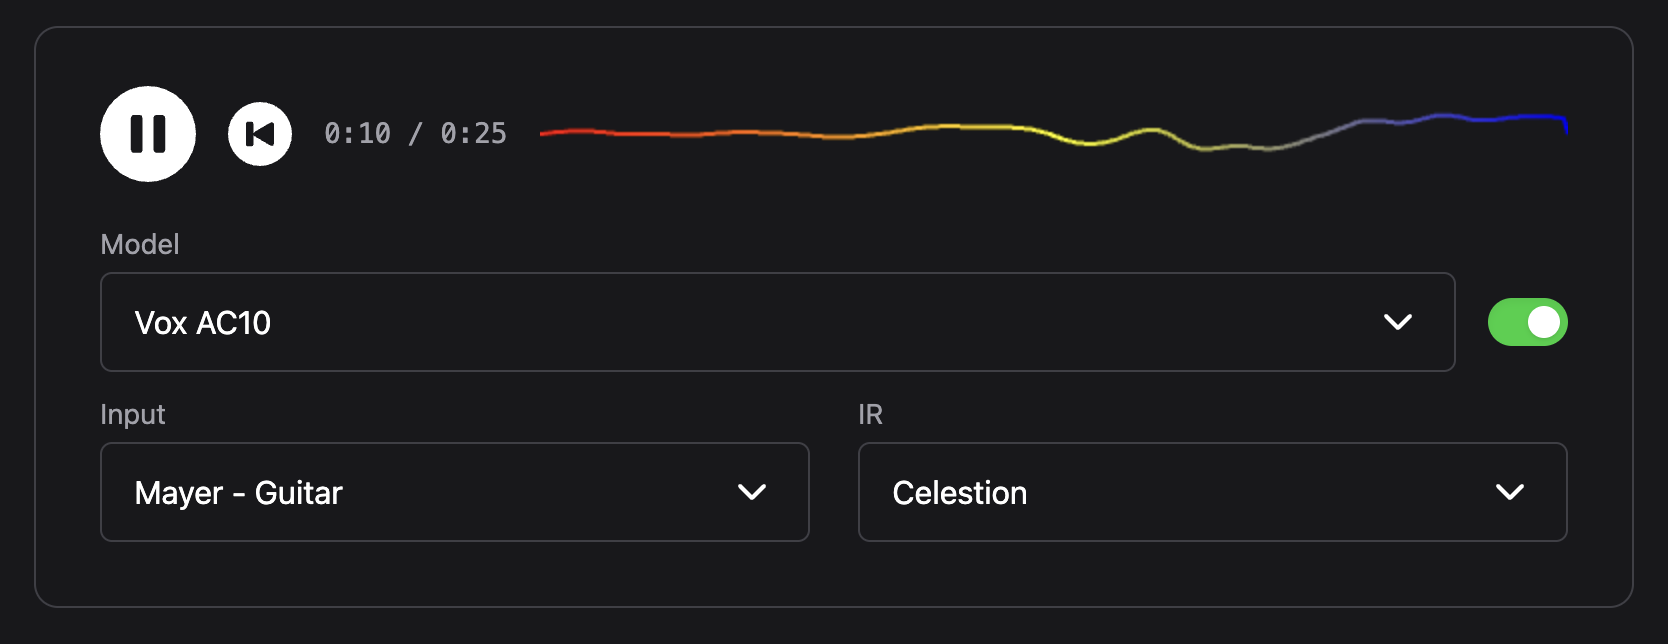
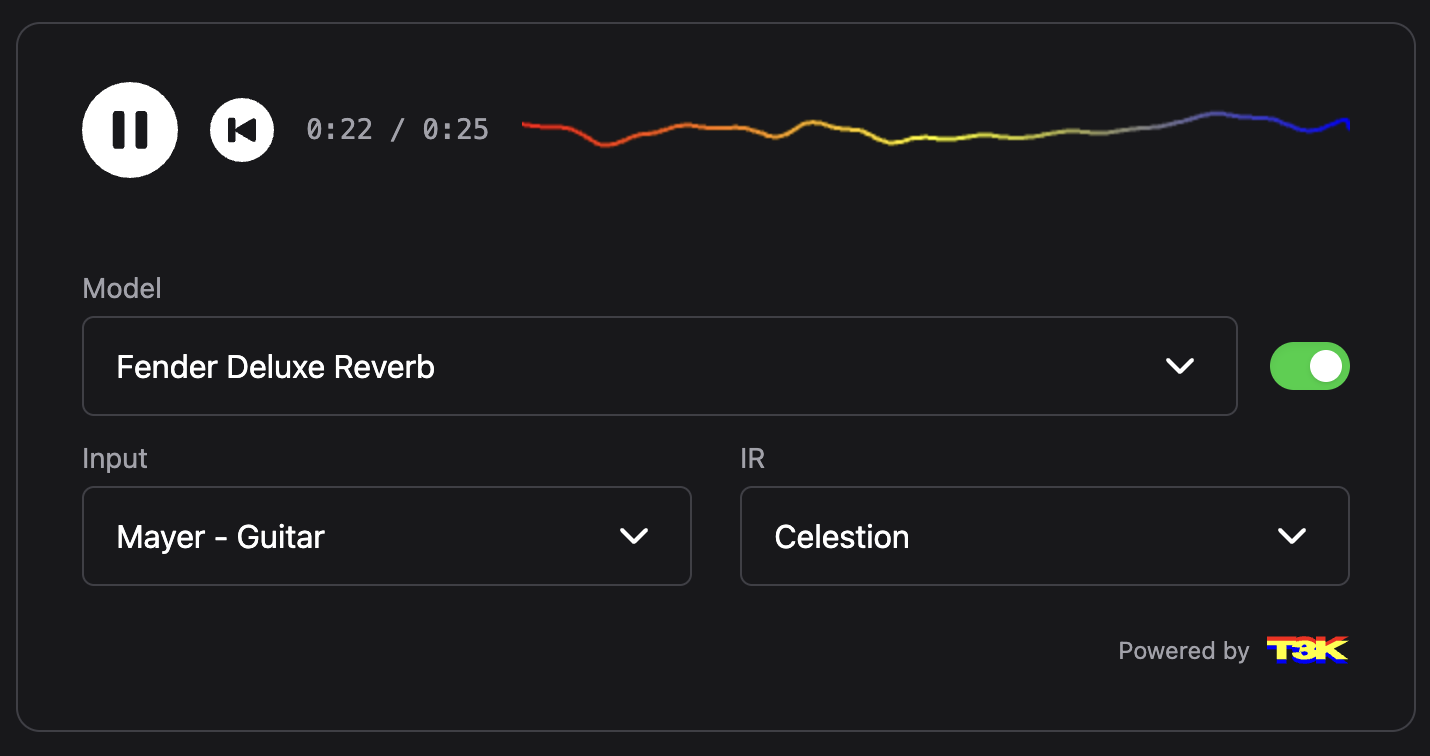
branding

diff --git a/ui/src/components/Player/Player.tsx b/ui/src/components/Player/Player.tsx
@@ -7,6 +7,7 @@ import { Skip } from '../ui/Skip';
 import { Select } from '../ui/Select';
 import { ToggleSimple } from '../ui/ToggleSimple';
 import { Pause } from '../ui/Pause';
+import { LogoSm } from '../ui/LogoSm';
 
 const PlayerFC: React.FC<T3kPlayerProps> = ({ models, irs, inputs }) => {
   const {
@@ -204,7 +205,7 @@ const PlayerFC: React.FC<T3kPlayerProps> = ({ models, irs, inputs }) => {
   };
 
   return (
-    <div className="bg-zinc-900 border border-zinc-700 text-white p-4 lg:p-8 pt-0 lg:pt-2 rounded-xl w-full">
+    <div className="bg-zinc-900 border border-zinc-700 text-white p-4 lg:p-8 pt-0 lg:pt-2 rounded-xl w-full flex flex-col gap-6">
       <div className="flex items-center gap-4 overflow-hidden">
         <button
           onClick={togglePlay}
@@ -289,6 +290,10 @@ const PlayerFC: React.FC<T3kPlayerProps> = ({ models, irs, inputs }) => {
           </div>
         </div>
       </div>
+      <a href="https://www.tone3000.com" target='_blank' className="flex flex-row gap-2 items-center self-end">
+        <p className="text-zinc-400 text-xs">Powered by</p>
+        <LogoSm width={42} height={14} />
+      </a>
     </div>
   );
 };

diff --git a/ui/src/preview.tsx b/ui/src/preview.tsx
@@ -7,7 +7,7 @@ import './index.css';
 const PreviewContent: React.FC = () => {
   return (
     <div className="p-5 flex justify-center items-center">
-        <div className="flex flex-col gap-4 max-w-[800px] w-full">
+        <div className="flex flex-col gap-4 max-w-[700px] w-full">
             <T3kPlayer
                 models={[]}
                 irs={[]}

diff --git a/ui/README.md b/ui/README.md
@@ -16,12 +16,13 @@ npm install neural-amp-modeler-wasm
 
 Before using the component, you need to host the WebAssembly files at the root of your project. These files are required for the component to function:
 
-1. Copy the following files from the `build/wasm` directory to your project's public directory:
-   - `t3k-wasm-module.js`
-   - `t3k-wasm-module.wasm`
-   - `t3k-wasm-module.worker.js`
-   - `t3k-wasm-module.aw.js`
-   - `t3k-wasm-module.ww.js`
+1. Copy the following files from the repository to your project's public directory:
+
+   - [t3k-wasm-module.js](https://raw.githubusercontent.com/tone-3000/neural-amp-modeler-wasm/refs/heads/main/ui/public/t3k-wasm-module.js)
+   - [t3k-wasm-module.wasm](https://raw.githubusercontent.com/tone-3000/neural-amp-modeler-wasm/refs/heads/main/ui/public/t3k-wasm-module.wasm)
+   - [t3k-wasm-module.worker.js](https://raw.githubusercontent.com/tone-3000/neural-amp-modeler-wasm/refs/heads/main/ui/public/t3k-wasm-module.worker.js)
+   - [t3k-wasm-module.aw.js](https://raw.githubusercontent.com/tone-3000/neural-amp-modeler-wasm/refs/heads/main/ui/public/t3k-wasm-module.aw.js)
+   - [t3k-wasm-module.ww.js](https://raw.githubusercontent.com/tone-3000/neural-amp-modeler-wasm/refs/heads/main/ui/public/t3k-wasm-module.ww.js)
 
 2. Make sure these files are accessible at the root of your web server (e.g., `https://your-domain.com/t3k-wasm-module.wasm`)
 
@@ -100,19 +101,12 @@ Optional boolean to show loading state
 
 ## Requirements
 
-- React 18 or higher
-- Modern browser with WebAssembly support
-- The WebAssembly files must be hosted at the root of your project
-
-## Features
-
-- WebAssembly-powered audio processing
-- Real-time guitar amp modeling
-- React-based UI components
-- TypeScript support
-- Built-in audio player with model switching
-- Impulse Response (IR) support
-- Multiple input audio support
+- Your web server must include the following CORS headers to enable WebAssembly and SharedArrayBuffer support:
+  ```http
+  Cross-Origin-Embedder-Policy: require-corp
+  Cross-Origin-Opener-Policy: same-origin
+  ```
+  These headers are required because WebAssembly audio processing uses SharedArrayBuffer, which requires these security policies to be enabled.
 
 ## Development
 
